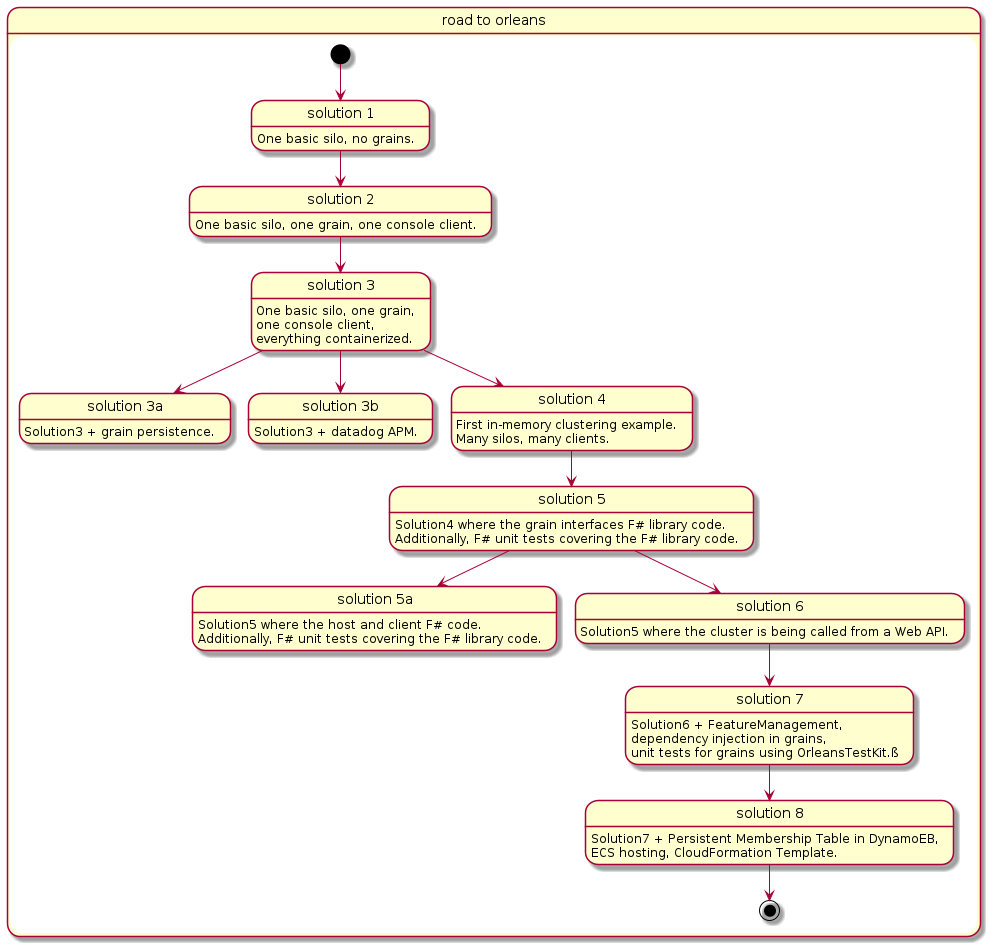
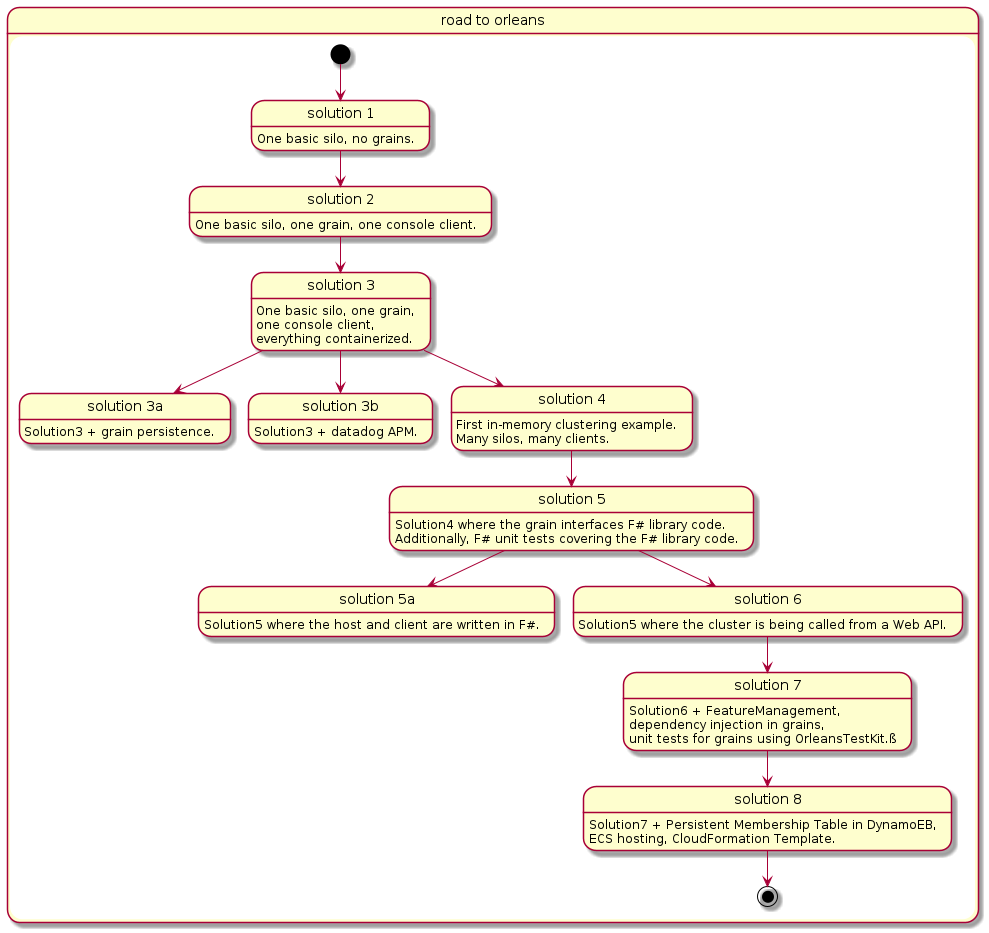
Fixed image.

Changed region(s): [[0.0, 0.0, 0.9707, 0.9946]]

diff --git a/readme.md b/readme.md
@@ -32,7 +32,7 @@ Silo dashboards are available by default on `localhost:8080` unless configured o
 | [solution3b](3b/readme.md) | Solution3 + datadog APM.                                                                                                                                                                                                    | :white_check_mark: | -          | 1               | 1 C# grain                              | 1 - console | :white_check_mark:           | :white_check_mark:          |
 | [solution4](4/readme.md)   | First in-memory clustering example. Many silos, many clients.                                                                                                                                                               | :white_check_mark: | in-memory  | n               | 1 C# grain                              | n - console | :white_check_mark:           | :white_check_mark:          |
 | [solution5](5/readme.md)   | Solution4 where the grain interfaces F# library code. Additionally, F# unit tests covering the F# library code.                                                                                                             | :white_check_mark: | in-memory  | n               | 1 C# grain interfacing F# library code. | n - console |                              |                             |
-| [solution5a](5a/readme.md) | Solution5 where the host and client F# code. Additionally, F# unit tests covering the F# library code.                                                                                                                      | :white_check_mark: | in-memory  | n               | 1 F# grain interfacing F# library code. | n - console |                              |                             |
+| [solution5a](5a/readme.md) | Solution5 where the host and client are written in F#.                                                                                                                                                                      | :white_check_mark: | in-memory  | n               | 1 F# grain interfacing F# library code. | n - console |                              |                             |
 | [solution6](6/readme.md)   | Solution5 where the cluster is being called from a Web API.                                                                                                                                                                 | :white_check_mark: | in-memory  | n               | 1 C# grain interfacing F# library code  | n - web api |                              |                             |
 | [solution7](7/readme.md)   | Solution6 + [FeatureManagement](https://www.nuget.org/packages/Microsoft.FeatureManagement/), dependency injection in grains, unit tests for grains using [OrleansTestKit](https://www.nuget.org/packages/OrleansTestKit/). | :white_check_mark: | in-memory  | n               | 1 C# grain interfacing F# library code  | n - web api |                              |                             |
 | [solution8](8/readme.md)   | Solution7 + Persistent Membership Table in DynamoEB, ECS hosting, CloudFormation Template.                                                                                                                                  | :white_check_mark: | Dynamo     | n               | 1 C# grain interfacing F# library code  | n - web api |                              |                             |
